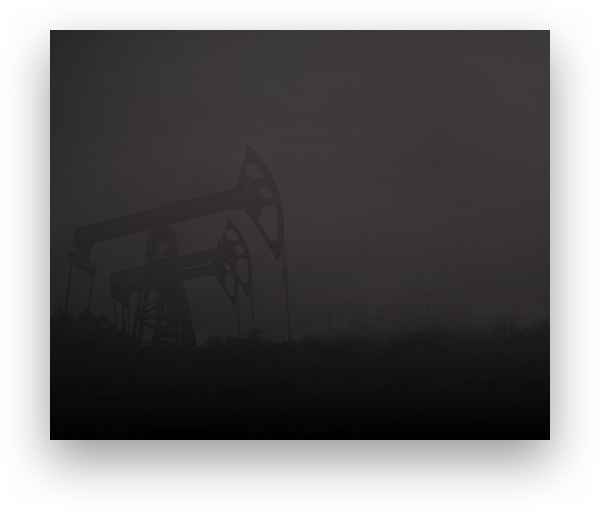
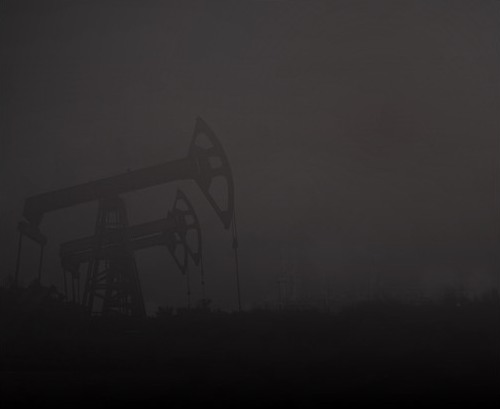
123

diff --git a/css/layout.css b/css/layout.css
@@ -136,15 +136,16 @@ input.error,textarea.error{
 	margin-left: -500px;
 }
 input::-webkit-input-placeholder {
-	color: #777;
+	color: rgba(255, 255, 255, 0.4);
 }
 input:-moz-placeholder {
-	color: #777;
+	color: rgba(255, 255, 255, 0.4);
 }
 [class^="icon-"]:before, 
 [class*="icon-"]:before,
 [class^="icon-"]:after, 
-[class*="icon-"]:after{
+[class*="icon-"]:after,
+.fancybox-close-small:after{
 	font-family: 'icomoon' !important;
 	speak: none;
 	font-style: normal;
@@ -237,16 +238,30 @@ h3.b-title{
     vertical-align: middle;
 }
 
+input{
+	padding: 15px 24px;
+	border: 1px solid #ffffff;
+	border-radius: 3px;
+	background-color: transparent;
+	color: #FFF;
+	font-family: 'Merel-Regular';
+	font-size: 16px;
+}
+
 /*-----------Главная------------*/
 
-.b-screen{
+.b-screen .b-screen-back{
+	position: absolute;
+	width: 100%;
+	height: 100%;
 	background-position: 50% 15%;
 	background-size: cover;
 	background-repeat: no-repeat;
 	overflow: hidden;
+	margin-bottom: 32px;
 }
 
-.b-screen-head{
+.b-screen-head .b-screen-back{
 	background-image: url(../i/back-1.jpg);
 }
 
@@ -345,6 +360,7 @@ h3.b-title{
 }
 
 	.b-tube img{
+		width: 546px;
 		display: inline-block;
 		position: absolute;
 		bottom: 0;
@@ -460,6 +476,60 @@ h3.b-title{
 			height: 355px;
 		}
 
+/*-----------Popup-----------*/
+
+.b-popup{
+	width: 100%;
+	max-width: 500px;
+	padding: 40px 44px 28px;
+	background-position: 50% 50%;
+	background-size: cover;
+	background-repeat: no-repeat;
+	background-image: url(../i/popup-back.jpg);
+}
+
+	.b-popup h2{
+		font-size: 36px;
+		line-height: 44px;
+		margin-bottom: 16px;
+	}
+
+	.b-popup h4{
+		font-size: 16px;
+		line-height: 26px;
+	}
+
+	.b-popup form{
+		margin: 16px 0;
+	}
+
+		.b-popup form input{
+			float: left;
+			width: calc(100%/2 - 12px);
+			margin-right: 24px;
+		}
+
+		.b-popup form input:last-child{
+			margin-right: 0;
+		}
+
+	.b-popup .b-btn{
+		float: right;
+	}
+
+	.personal-info{
+		color: rgba(255, 255, 255, 0.4);
+	}
+
+		.personal-info a{
+			color: rgba(255, 255, 255, 0.4);
+			border-bottom: 1px solid rgba(255, 255, 255, 0.4);
+		}
+
+		.personal-info a:hover{
+			border-bottom: transparent;
+		}
+
 /*----------FullPage.js-----------*/
 
 .fp-tableCell{
@@ -528,6 +598,24 @@ h3.b-title{
 			    margin: 0;
 			    border-radius: 3px;
 			}
+
+.fancybox-close-small {
+    position: absolute;
+    right: 15px;
+    top: 15px;
+}
+
+.fancybox-close-small:after {
+    content: "\e900";
+    position: absolute;
+    left: 8px;
+    top: 10px;
+    color: #FFF;
+    font-size: 25px;
+    width: auto;
+    height: auto;
+    background-color: transparent;
+}
 
 /*-------------------------------*/
 

diff --git a/index.html b/index.html
@@ -42,13 +42,14 @@
 				</ul>
 				<div class="b-menu-contacts right">
 					<div><a href="tel:+73822430063">+7 (3822) 43-00-63</a></div>
-					<a href="#" class="b-btn">Заказать звонок</a>
+					<a href="#b-popup-call" class="fancy b-btn">Заказать звонок</a>
 				</div>
 			</div>
 		</div>
 
 		<div id="fullpage">
 			<div class="b b-screen b-screen-head">
+				<div class="b-screen-back"></div>
 				<div class="b-block">
 					<div class="b-screen-content">
 						<h1 class="b-title">Оптовая поставка оборудования</h1>
@@ -127,7 +128,6 @@
 							<div class="dot-white" style="top:34%; left:74.4%;"></div>
 							<div class="dot-white" style="top:41%; left:83.4%;"></div>
 							<div class="dot-white" style="top:23%; left:87.4%;"></div>
-
 							
 							<div class="dot-white-small" style="top:50%; left:27.7%;"></div>
 							<div class="dot-white-small" style="top:49%; left:34.7%;"></div>
@@ -206,6 +206,18 @@
 				</div>
 			</form>
 		</div>
+
+		<div class="b-popup" id="b-popup-call">
+			<h2 class="b-title">Обратный звонок</h2>
+			<h4>Вы можете оставить заявку на обратный звонок,<br>и наш менеджер свяжется с Вами в ближайшее время</h4>
+			<form id="b-popup-call-form" class="b-popup-call-form clearfix" method="post" action="kitsend.php">
+				<input type="text" name="name" placeholder="Иван Иванович" required>
+				<input type="text" name="phone" placeholder="+7 (999) 999-99-99" required>
+				<a href="#" class="b-btn ajax" onclick="$('#b-popup-call-form').submit(); return false;">Отправить</a>
+			</form>
+			<p class="personal-info">Отправляя запрос, Вы подтверждаете <a href="#">согласие на&nbsp;обработку персональных данных</a></p>
+		</div>
+
 		<div class="b-thanks b-popup" id="b-popup-success">
 			<h3>Спасибо!</h3>
 			<h4>Ваша заявка успешно отправлена.<br/>Наш менеджер свяжется с Вами в течение часа.</h4>
@@ -216,6 +228,7 @@
 			<h4>Приносим свои извинения. Пожалуйста, попробуйте отправить Вашу заявку позже.</h4>
 			<input type="submit" class="b-orange-butt" onclick="$.fancybox.close(); return false;" value="Закрыть">
 		</div>
+
 	</div>
 	<script type="text/javascript" src="js/jquery-3.2.1.min.js"></script>
 	<script type="text/javascript" src="js/jquery.fancybox.js"></script>

diff --git a/js/main.js b/js/main.js
@@ -1,4 +1,7 @@
-$(document).ready(function(){	
+$(document).ready(function(){
+
+    var isRetina = retina();
+
     function resize(){
        if( typeof( window.innerWidth ) == 'number' ) {
             myWidth = window.innerWidth;
@@ -12,6 +15,19 @@ $(document).ready(function(){
             myHeight = document.body.clientHeight;
         }
     }
+
+    function retina(){
+        var mediaQuery = "(-webkit-min-device-pixel-ratio: 1.5),\
+            (min--moz-device-pixel-ratio: 1.5),\
+            (-o-min-device-pixel-ratio: 3/2),\
+            (min-resolution: 1.5dppx)";
+        if (window.devicePixelRatio > 1)
+            return true;
+        if (window.matchMedia && window.matchMedia(mediaQuery).matches)
+            return true;
+        return false;
+    }
+
     $(window).resize(resize);
     resize();
 
@@ -40,6 +56,19 @@ $(document).ready(function(){
         }
     }
     $.fn.placeholder();
+
+    if(isRetina){
+        $("*[data-retina]").each(function(){
+            var $this = $(this),
+                img = new Image(),
+                src = $this.attr("data-retina");
+
+            img.onload = function(){
+                $this.attr("src", $this.attr("data-retina"));
+            };
+            img.src = src;
+        });
+    }
 
     $('#fullpage').fullpage({
         sectionSelector: '.b-screen',
